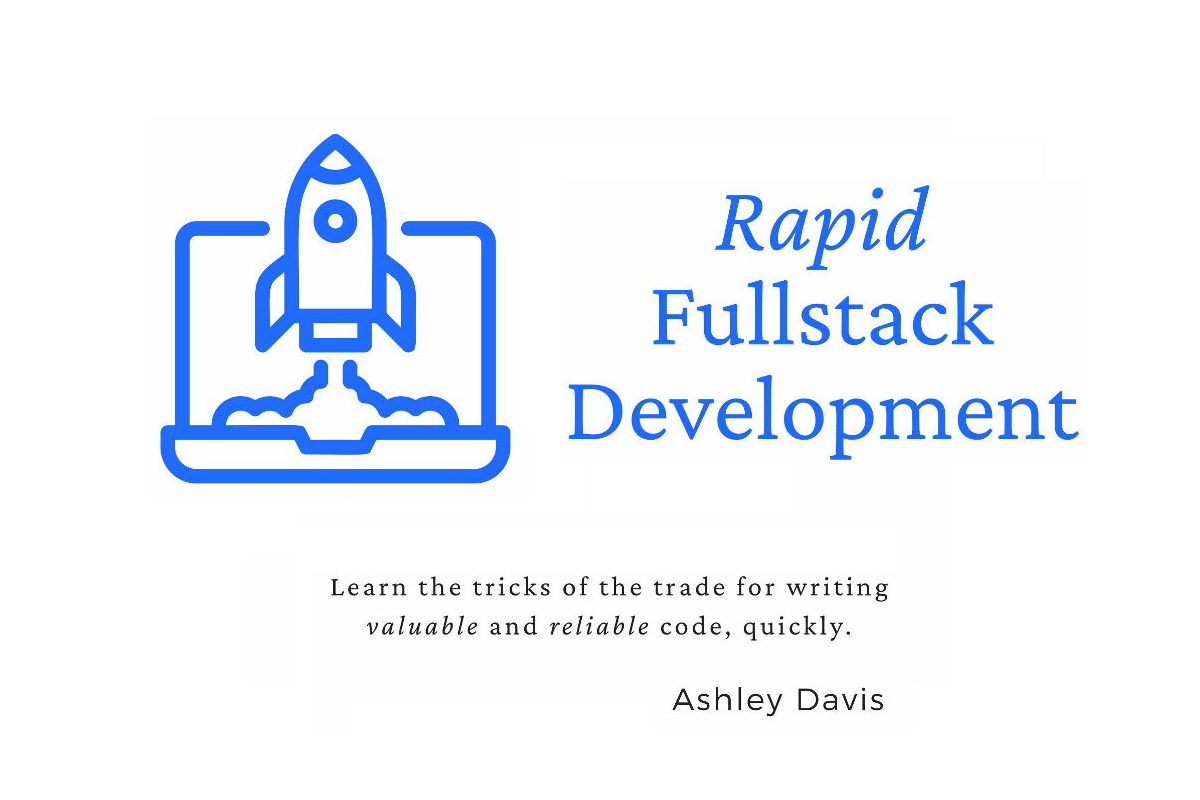
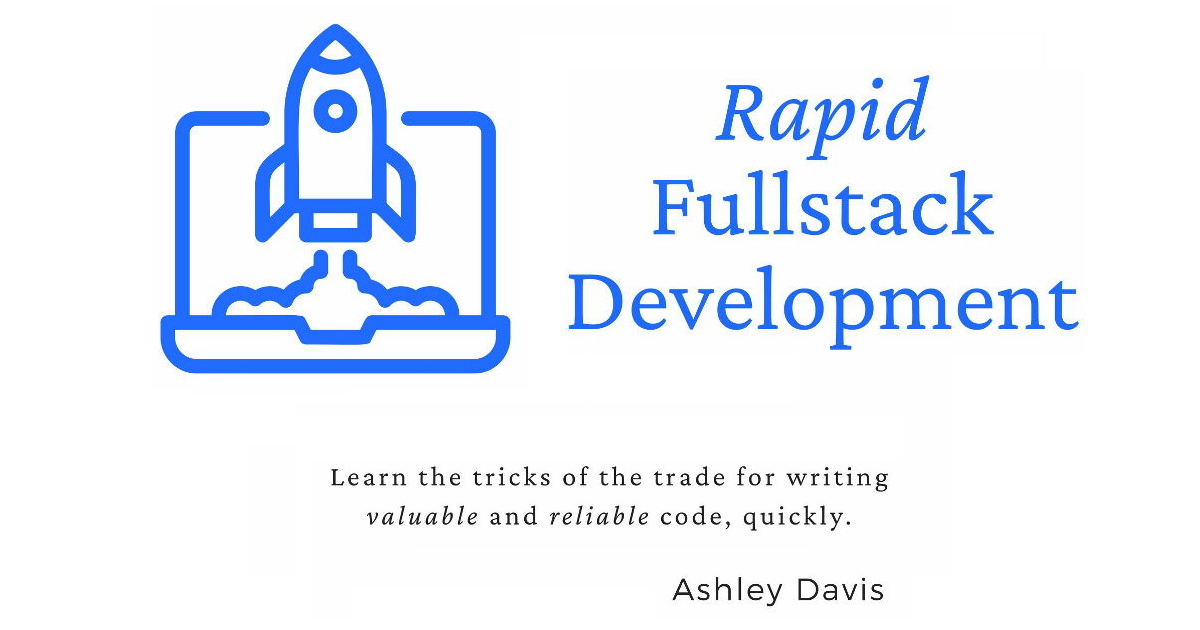
Reduce height of the social preview image.

Changed region(s): [[0.4625, 0.1206, 0.8942, 0.573], [0.1233, 0.0302, 0.4317, 0.6032], [0.2775, 0.7238, 0.74, 0.9651]]

diff --git a/src/_includes/layouts/default.html b/src/_includes/layouts/default.html
@@ -40,7 +40,7 @@
     <meta property="og:image:secure" content="https://rapidfullstackdevelopment.com/assets/images/preview.jpg" /> 
     <meta property="og:image:type" content="image/jpeg" /> 
     <meta property="og:image:width" content="1200" />
-    <meta property="og:image:height" content="800" />
+    <meta property="og:image:height" content="630" />
     
     <meta name="twitter:card" content="summary_large_image" />
     <meta name="twitter:site" content="@codecapers" />
